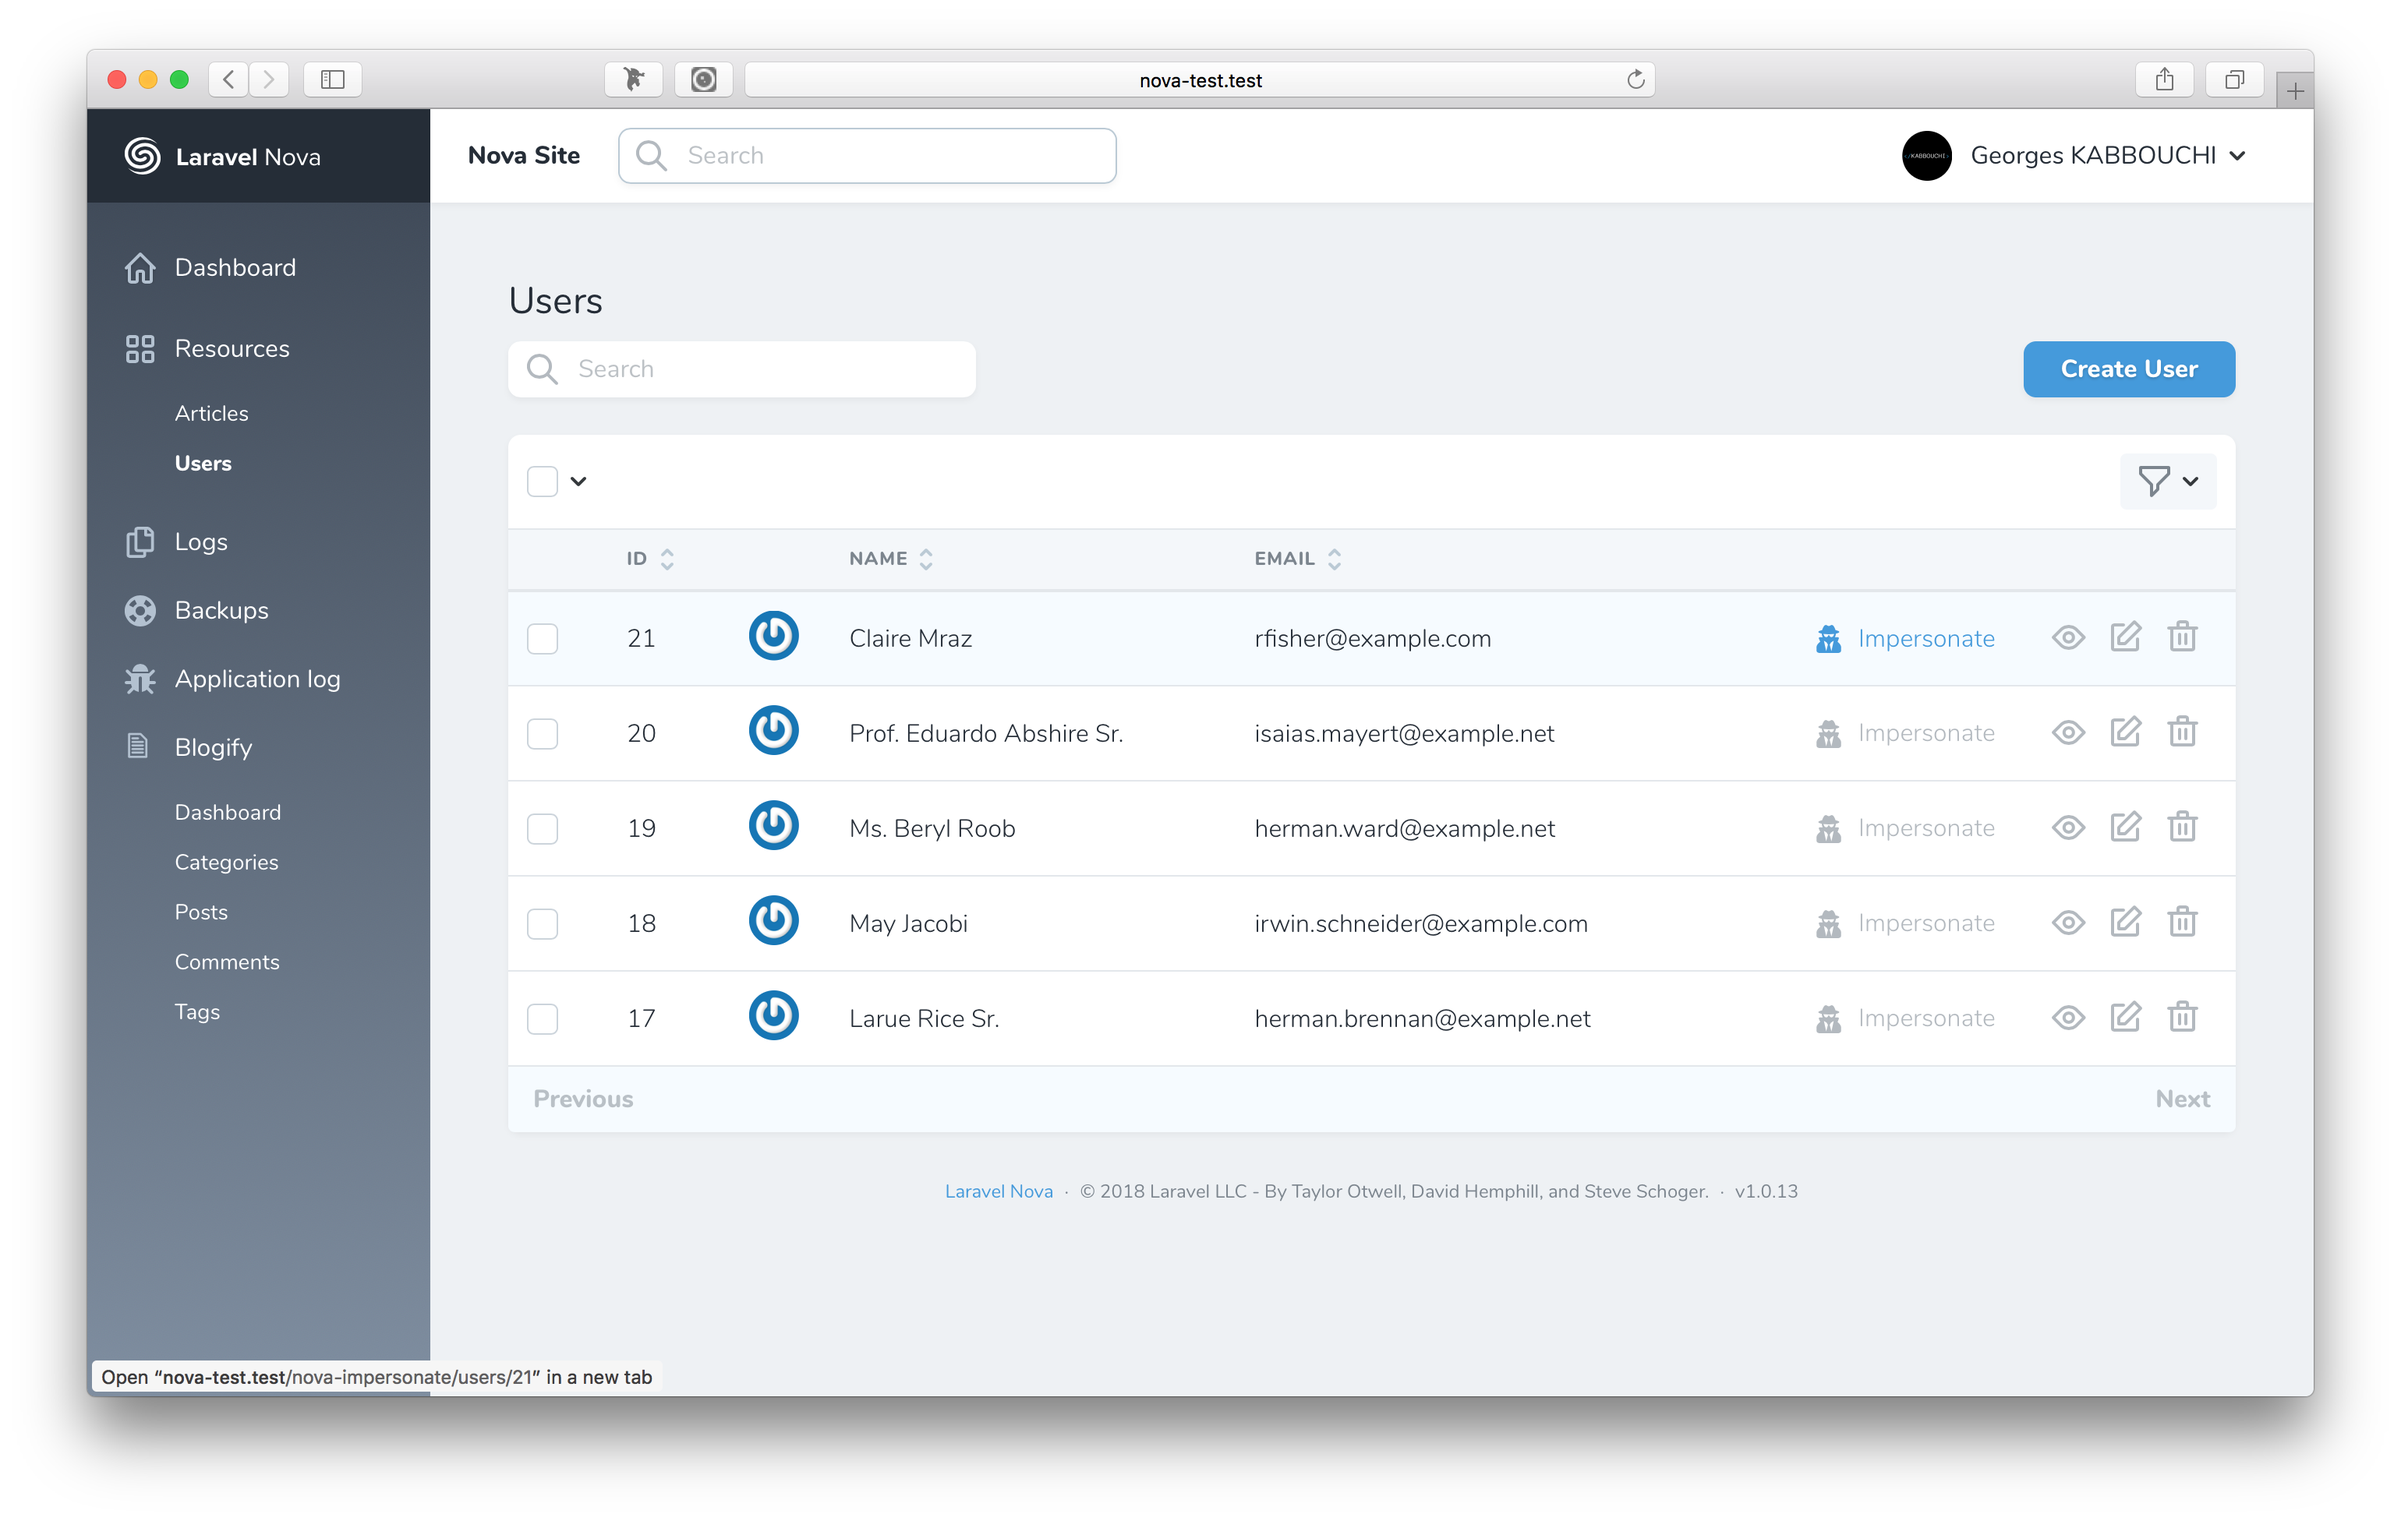
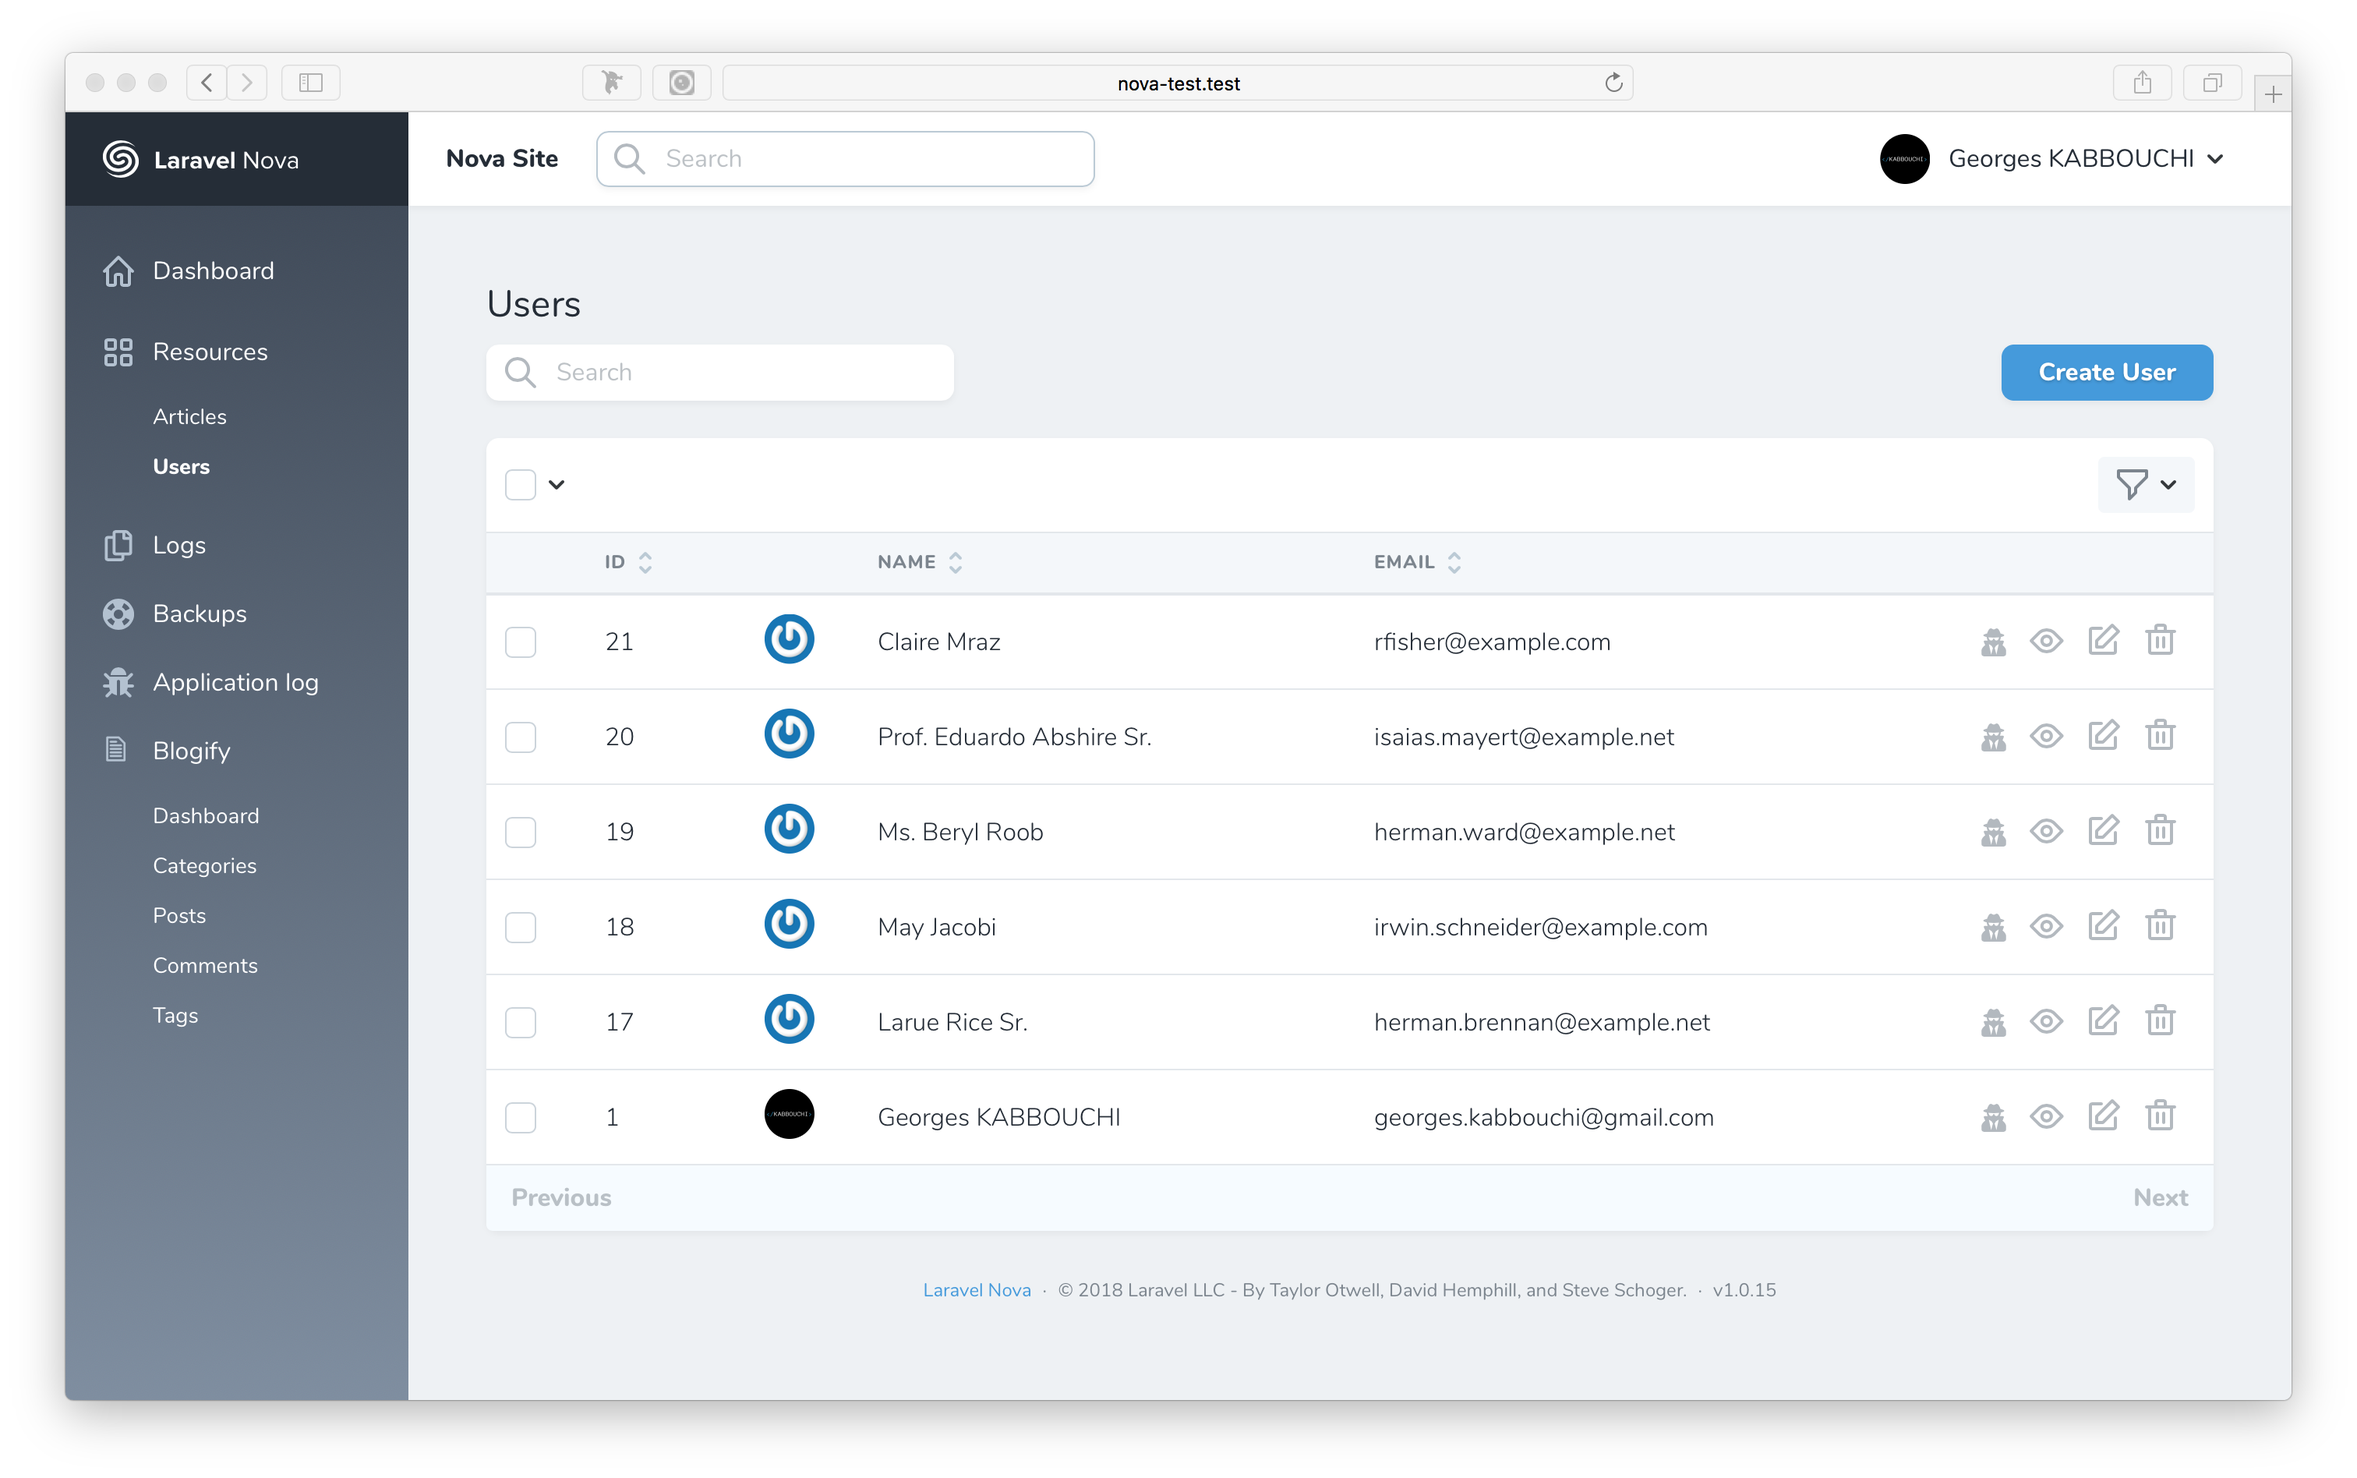
wip

diff --git a/resources/js/components/Index/ImpersonateField.vue b/resources/js/components/Index/ImpersonateField.vue
@@ -1,0 +1,31 @@
+<template>
+    <a @click="onClick"
+       class="impersonate cursor-pointer text-70 hover:text-primary no-underline flex items-center"
+       :style='field.hideText ? "width:22px" : ""'
+    >
+        <svg width="22" height="18" aria-hidden="true" xmlns="http://www.w3.org/2000/svg" viewBox="0 0 448 512">
+            <path fill="currentColor"
+                  d="M383.9 308.3l23.9-62.6c4-10.5-3.7-21.7-15-21.7h-58.5c11-18.9 17.8-40.6 17.8-64v-.3c39.2-7.8 64-19.1 64-31.7 0-13.3-27.3-25.1-70.1-33-9.2-32.8-27-65.8-40.6-82.8-9.5-11.9-25.9-15.6-39.5-8.8l-27.6 13.8c-9 4.5-19.6 4.5-28.6 0L182.1 3.4c-13.6-6.8-30-3.1-39.5 8.8-13.5 17-31.4 50-40.6 82.8-42.7 7.9-70 19.7-70 33 0 12.6 24.8 23.9 64 31.7v.3c0 23.4 6.8 45.1 17.8 64H56.3c-11.5 0-19.2 11.7-14.7 22.3l25.8 60.2C27.3 329.8 0 372.7 0 422.4v44.8C0 491.9 20.1 512 44.8 512h358.4c24.7 0 44.8-20.1 44.8-44.8v-44.8c0-48.4-25.8-90.4-64.1-114.1zM176 480l-41.6-192 49.6 32 24 40-32 120zm96 0l-32-120 24-40 49.6-32L272 480zm41.7-298.5c-3.9 11.9-7 24.6-16.5 33.4-10.1 9.3-48 22.4-64-25-2.8-8.4-15.4-8.4-18.3 0-17 50.2-56 32.4-64 25-9.5-8.8-12.7-21.5-16.5-33.4-.8-2.5-6.3-5.7-6.3-5.8v-10.8c28.3 3.6 61 5.8 96 5.8s67.7-2.1 96-5.8v10.8c-.1.1-5.6 3.2-6.4 5.8z"></path>
+        </svg>
+        <span v-if="! field.hideText" class="ml-2">
+            {{ __('Impersonate') }}
+        </span>
+    </a>
+</template>
+
+<script>
+    export default {
+        props: ['resourceName', 'field'],
+        methods: {
+            onClick() {
+                window.open(`/nova-impersonate/users/${this.field.id}`, '_top');
+            }
+        },
+        mounted() {
+            let parentElement = this.$el.parentElement;
+
+            parentElement.classList.add('td-fit');
+            parentElement.style.paddingRight = '0px';
+        }
+    }
+</script>

diff --git a/resources/js/components/Detail/ImpersonateField.vue b/resources/js/components/Detail/ImpersonateField.vue
@@ -1,0 +1,22 @@
+<template>
+    <a @click="onClick"
+       class="impersonate cursor-pointer text-70 hover:text-primary no-underline flex items-center"
+    >
+        <svg width="22" height="18" aria-hidden="true" xmlns="http://www.w3.org/2000/svg" viewBox="0 0 448 512">
+            <path fill="currentColor"
+                  d="M383.9 308.3l23.9-62.6c4-10.5-3.7-21.7-15-21.7h-58.5c11-18.9 17.8-40.6 17.8-64v-.3c39.2-7.8 64-19.1 64-31.7 0-13.3-27.3-25.1-70.1-33-9.2-32.8-27-65.8-40.6-82.8-9.5-11.9-25.9-15.6-39.5-8.8l-27.6 13.8c-9 4.5-19.6 4.5-28.6 0L182.1 3.4c-13.6-6.8-30-3.1-39.5 8.8-13.5 17-31.4 50-40.6 82.8-42.7 7.9-70 19.7-70 33 0 12.6 24.8 23.9 64 31.7v.3c0 23.4 6.8 45.1 17.8 64H56.3c-11.5 0-19.2 11.7-14.7 22.3l25.8 60.2C27.3 329.8 0 372.7 0 422.4v44.8C0 491.9 20.1 512 44.8 512h358.4c24.7 0 44.8-20.1 44.8-44.8v-44.8c0-48.4-25.8-90.4-64.1-114.1zM176 480l-41.6-192 49.6 32 24 40-32 120zm96 0l-32-120 24-40 49.6-32L272 480zm41.7-298.5c-3.9 11.9-7 24.6-16.5 33.4-10.1 9.3-48 22.4-64-25-2.8-8.4-15.4-8.4-18.3 0-17 50.2-56 32.4-64 25-9.5-8.8-12.7-21.5-16.5-33.4-.8-2.5-6.3-5.7-6.3-5.8v-10.8c28.3 3.6 61 5.8 96 5.8s67.7-2.1 96-5.8v10.8c-.1.1-5.6 3.2-6.4 5.8z"></path>
+        </svg>
+        <span class="ml-2" v-text="__('Impersonate')"></span>
+    </a>
+</template>
+
+<script>
+    export default {
+        props: ['resourceName', 'field'],
+        methods: {
+            onClick() {
+                window.open(`/nova-impersonate/users/${this.field.id}`, '_top');
+            }
+        },
+    }
+</script>

diff --git a/webpack.mix.js b/webpack.mix.js
@@ -1,4 +1,9 @@
 let mix = require('laravel-mix')
 
-mix.js('resources/js/tool.js', 'dist/js')
-   .sass('resources/sass/tool.scss', 'dist/css')
+mix.js('resources/js/field.js', 'dist/js')
+    .sass('resources/sass/field.scss', 'dist/css')
+    .webpackConfig({
+        resolve: {
+            symlinks: false
+        }
+    })

diff --git a/resources/js/field.js b/resources/js/field.js
@@ -1,0 +1,5 @@
+Nova.booting((Vue, router) => {
+    Vue.config.devtools = true;
+    Vue.component('index-impersonate-field', require('./components/Index/ImpersonateField'));
+    Vue.component('detail-impersonate-field', require('./components/Detail/ImpersonateField'));
+})

diff --git a/src/Impersonate.php b/src/Impersonate.php
@@ -2,32 +2,27 @@
 
 namespace KABBOUCHI\NovaImpersonate;
 
-use Laravel\Nova\Fields\Text;
+use Laravel\Nova\Fields\Field;
 
-class Impersonate extends Text
+class Impersonate extends Field
 {
-	public $textAlign = 'right';
+	public $textAlign = 'center';
 
-	public function __construct($id)
+	public $component = 'impersonate-field';
+
+	public $meta = [
+		'hideText' => true
+	];
+
+	public function __construct($id = null)
 	{
+		parent::__construct(null, null, null);
 
-		if ($id != auth()->id()) {
-			parent::__construct(null, function () use ($id) {
-				$url = '/nova-impersonate/users/' . $id;
-
-				return '<a href="' . $url . '" class="cursor-pointer text-70 hover:text-primary mr-3 no-underline flex items-center justify-end">
-<svg width="22" height="18" aria-hidden="true" data-prefix="fas" data-icon="user - secret" role="img" xmlns="http://www.w3.org/2000/svg" viewBox="0 0 448 512"><path fill="currentColor" d="M383.9 308.3l23.9-62.6c4-10.5-3.7-21.7-15-21.7h-58.5c11-18.9 17.8-40.6 17.8-64v-.3c39.2-7.8 64-19.1 64-31.7 0-13.3-27.3-25.1-70.1-33-9.2-32.8-27-65.8-40.6-82.8-9.5-11.9-25.9-15.6-39.5-8.8l-27.6 13.8c-9 4.5-19.6 4.5-28.6 0L182.1 3.4c-13.6-6.8-30-3.1-39.5 8.8-13.5 17-31.4 50-40.6 82.8-42.7 7.9-70 19.7-70 33 0 12.6 24.8 23.9 64 31.7v.3c0 23.4 6.8 45.1 17.8 64H56.3c-11.5 0-19.2 11.7-14.7 22.3l25.8 60.2C27.3 329.8 0 372.7 0 422.4v44.8C0 491.9 20.1 512 44.8 512h358.4c24.7 0 44.8-20.1 44.8-44.8v-44.8c0-48.4-25.8-90.4-64.1-114.1zM176 480l-41.6-192 49.6 32 24 40-32 120zm96 0l-32-120 24-40 49.6-32L272 480zm41.7-298.5c-3.9 11.9-7 24.6-16.5 33.4-10.1 9.3-48 22.4-64-25-2.8-8.4-15.4-8.4-18.3 0-17 50.2-56 32.4-64 25-9.5-8.8-12.7-21.5-16.5-33.4-.8-2.5-6.3-5.7-6.3-5.8v-10.8c28.3 3.6 61 5.8 96 5.8s67.7-2.1 96-5.8v10.8c-.1.1-5.6 3.2-6.4 5.8z"></path></svg>
-	<span class="ml-2" >' . __('Impersonate') . '</span >
-</a > ';
-			}, null);
-		} else {
-			parent::__construct(null, null, null);
+		if ($id) {
+			$this->withMeta(['id' => $id]);
 		}
 
-
-		$this->exceptOnForms();
-		$this->asHtml();
-
+		$this->onlyOnIndex();
 
 	}
 }

diff --git a/src/ToolServiceProvider.php b/src/ToolServiceProvider.php
@@ -17,6 +17,9 @@ class ToolServiceProvider extends ServiceProvider
 	 */
 	public function boot()
 	{
+		Nova::script('nova-impersonate', __DIR__ . '/../dist/js/field.js');
+		Nova::style('nova-impersonate', __DIR__ . '/../dist/css/field.css');
+
 		$this->loadViewsFrom(__DIR__ . '/../resources/views', 'NovaImpersonate');
 		$this->publishes([ __DIR__ . '/../resources/views' => base_path('resources/views/vendor/nova-impersonate'),
 		], 'nova-impersonate-views');

diff --git a/README.md b/README.md
@@ -6,8 +6,9 @@
 
 This field allows you to authenticate as your users.
 
-![screenshot1](https://raw.githubusercontent.com/KABBOUCHI/nova-impersonate/master/docs/screenshot1.png)
-![screenshot2](https://raw.githubusercontent.com/KABBOUCHI/nova-impersonate/master/docs/screenshot2.png)
+![screenshot1](https://raw.githubusercontent.com/KABBOUCHI/nova-impersonate/master/docs/screenshot1.png?1)
+![screenshot2](https://raw.githubusercontent.com/KABBOUCHI/nova-impersonate/master/docs/screenshot2.png?1)
+![screenshot2](https://raw.githubusercontent.com/KABBOUCHI/nova-impersonate/master/docs/screenshot3.png?1)
 
 Behind the scenes [404labfr/laravel-impersonate](https://github.com/404labfr/laravel-impersonate) is used.
 
@@ -58,7 +59,17 @@ class User extends Resource
 				->creationRules('required', 'string', 'min:6')
 				->updateRules('nullable', 'string', 'min:6'),
 
+
 			Impersonate::make($this->id),  // <---
+			
+			// or
+			Impersonate::make()->withMeta([ 'id' => $this->id  ]),
+			
+			// or
+			Impersonate::make()->withMeta([
+			    'id' => $this->id,
+			    'hideText' => false,
+			]),
 
 		];
 	}
